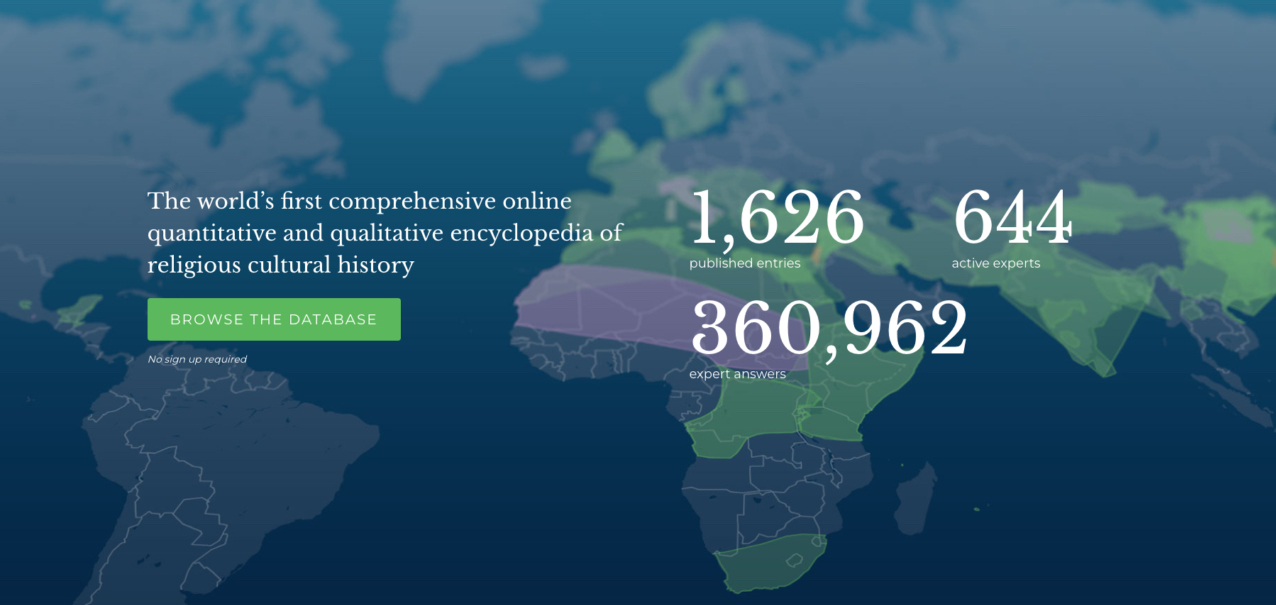
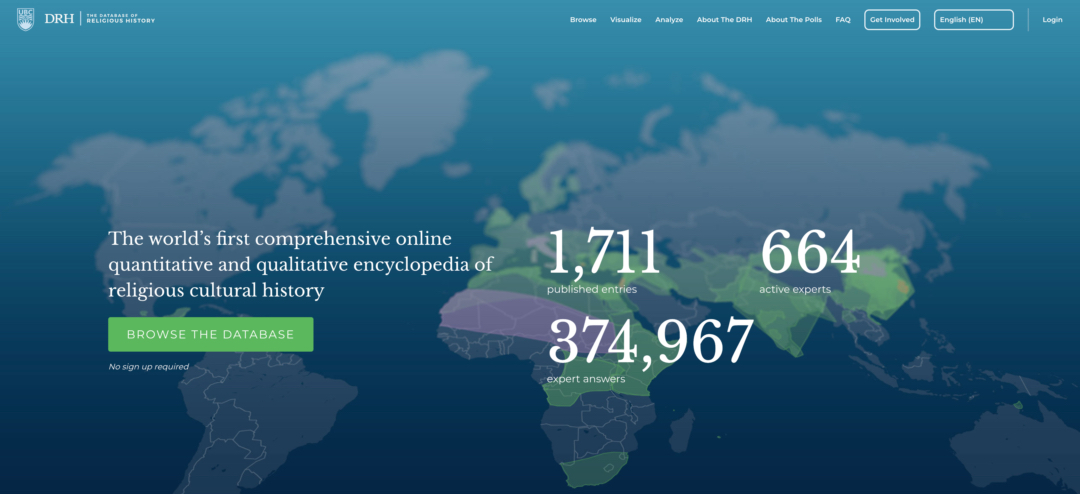
Spring 2026 update

diff --git a/_includes/header.html b/_includes/header.html
@@ -23,6 +23,7 @@
             <ul class="nav__list list-reset">
 
               {% for item in site.data.settings.menu__settings.menu__items %}
+                {% unless item.menu_exclude %}
                 {% if item.submenu %}
                 <li class="nav__item dropdown">
                   <span class="nav__link dropdown-toggle">{{ item.title }} <i class="ion ion-ios-arrow-down arrow-down"></i></span>
@@ -37,6 +38,7 @@
                   <a href="{{site.baseurl}}{{ item.url }}" class="nav__link{% if page.url == site.baseurl | append: item.url %} active-link{% endif %}">{{ item.title }}</a>
                 </li>
                 {% endif %}
+                {% endunless %}
               {% endfor %}
             </ul>
           </div>

diff --git a/_pages/project.md b/_pages/project.md
@@ -110,15 +110,8 @@ After collecting data on 400 entries, we will provisionally map out inter-relati
 
   <div class="timeline-item">
     <div class="timeline-content">
-      <div class="timeline-date">December 28, 2025</div>
-      <p class="timeline-text">Translate the NRP into Thai and Vietnamese</p>
-    </div>
-  </div>
-
-<div class="timeline-item">
-    <div class="timeline-content">
-      <div class="timeline-date">January 2, 2026</div>
-      <p class="timeline-text">Widespread recruitment and group entry phase begins (200 entries from Inform's archive and 200 entries from fieldwork, citizen science and scholarly recruitment).</p>
+      <div class="timeline-date">January 2026</div>
+      <p class="timeline-text">Translate the NRP into French, Hindi, Japanese, Korean, Portuguese, Spanish, Thai and Vietnamese</p>
     </div>
   </div>
 
@@ -126,13 +119,6 @@ After collecting data on 400 entries, we will provisionally map out inter-relati
     <div class="timeline-content">
       <div class="timeline-date">January-June 2026</div>
       <p class="timeline-text">Widespread recruitment and group entry phase begins (200 entries from Inform's archive and 200 entries from fieldwork, citizen science and scholarly recruitment).</p>
-    </div>
-  </div>
-
-  <div class="timeline-item">
-    <div class="timeline-content">
-      <div class="timeline-date">January 31, 2026</div>
-      <p class="timeline-text">Complete 20 beta testing entries from Inform's archive to ensure technical success and by iteratively refining questions to ensure validity of the DRH tools.</p>
     </div>
   </div>
 

diff --git a/_pages/people.md b/_pages/people.md
@@ -220,6 +220,18 @@ Co-Editor: Journal for the Study of Religion in Southern Africa (JSR)</p>
 <a href="mailto:prakirati@gmail.com" class="person-email">prakirati@gmail.com</a>
 </div>
 </div>
+
+<div class="person-card">
+<div class="person-image">
+<img src="{{site.baseurl}}/images/people/minkyu-lee.jpg" alt="Minkyu Lee">
+</div>
+<div class="person-info">
+<h3 class="person-name">Minkyu Lee</h3>
+<p class="person-title">Researcher, Institute for African Studies, Yonsei University</p>
+<p class="person-additional">Postdoctoral Fellow, University of South Africa (UNISA)</p>
+<a href="mailto:minkyu.lee@yonsei.ac.kr" class="person-email">minkyu.lee@yonsei.ac.kr</a>
+</div>
+</div>
 </div>
 
 <h3 class="subsection-heading">Digital Humanities and Citizen Science</h3>

diff --git a/_pages/about.md b/_pages/about.md
@@ -76,7 +76,7 @@ Senior research officer at Inform with expertise in new religious movements, foc
 
 <div class="team-member">
 <h4>Lam Khau</h4>
-Ethnographic filmmaker with a Film Studies degree from Fulbright University Vietnam.
+Ethnographic filmmaker, graduate of Fulbright University Vietnam.
 </div>
 
 <div class="team-member">

diff --git a/_pages/museum-exhibition.md b/_pages/museum-exhibition.md
@@ -1,0 +1,7 @@
+---
+layout: page
+title: Museum Exhibition
+permalink: /museum-exhibition/
+image: '/images/museum-exhibition.jpg'
+---
+

diff --git a/_pages/workshops.md b/_pages/workshops.md
@@ -1,6 +1,6 @@
 ---
 layout: page
-title: Workshops
+title: Poll Creation Workshops
 permalink: /workshops/
 ---
 
